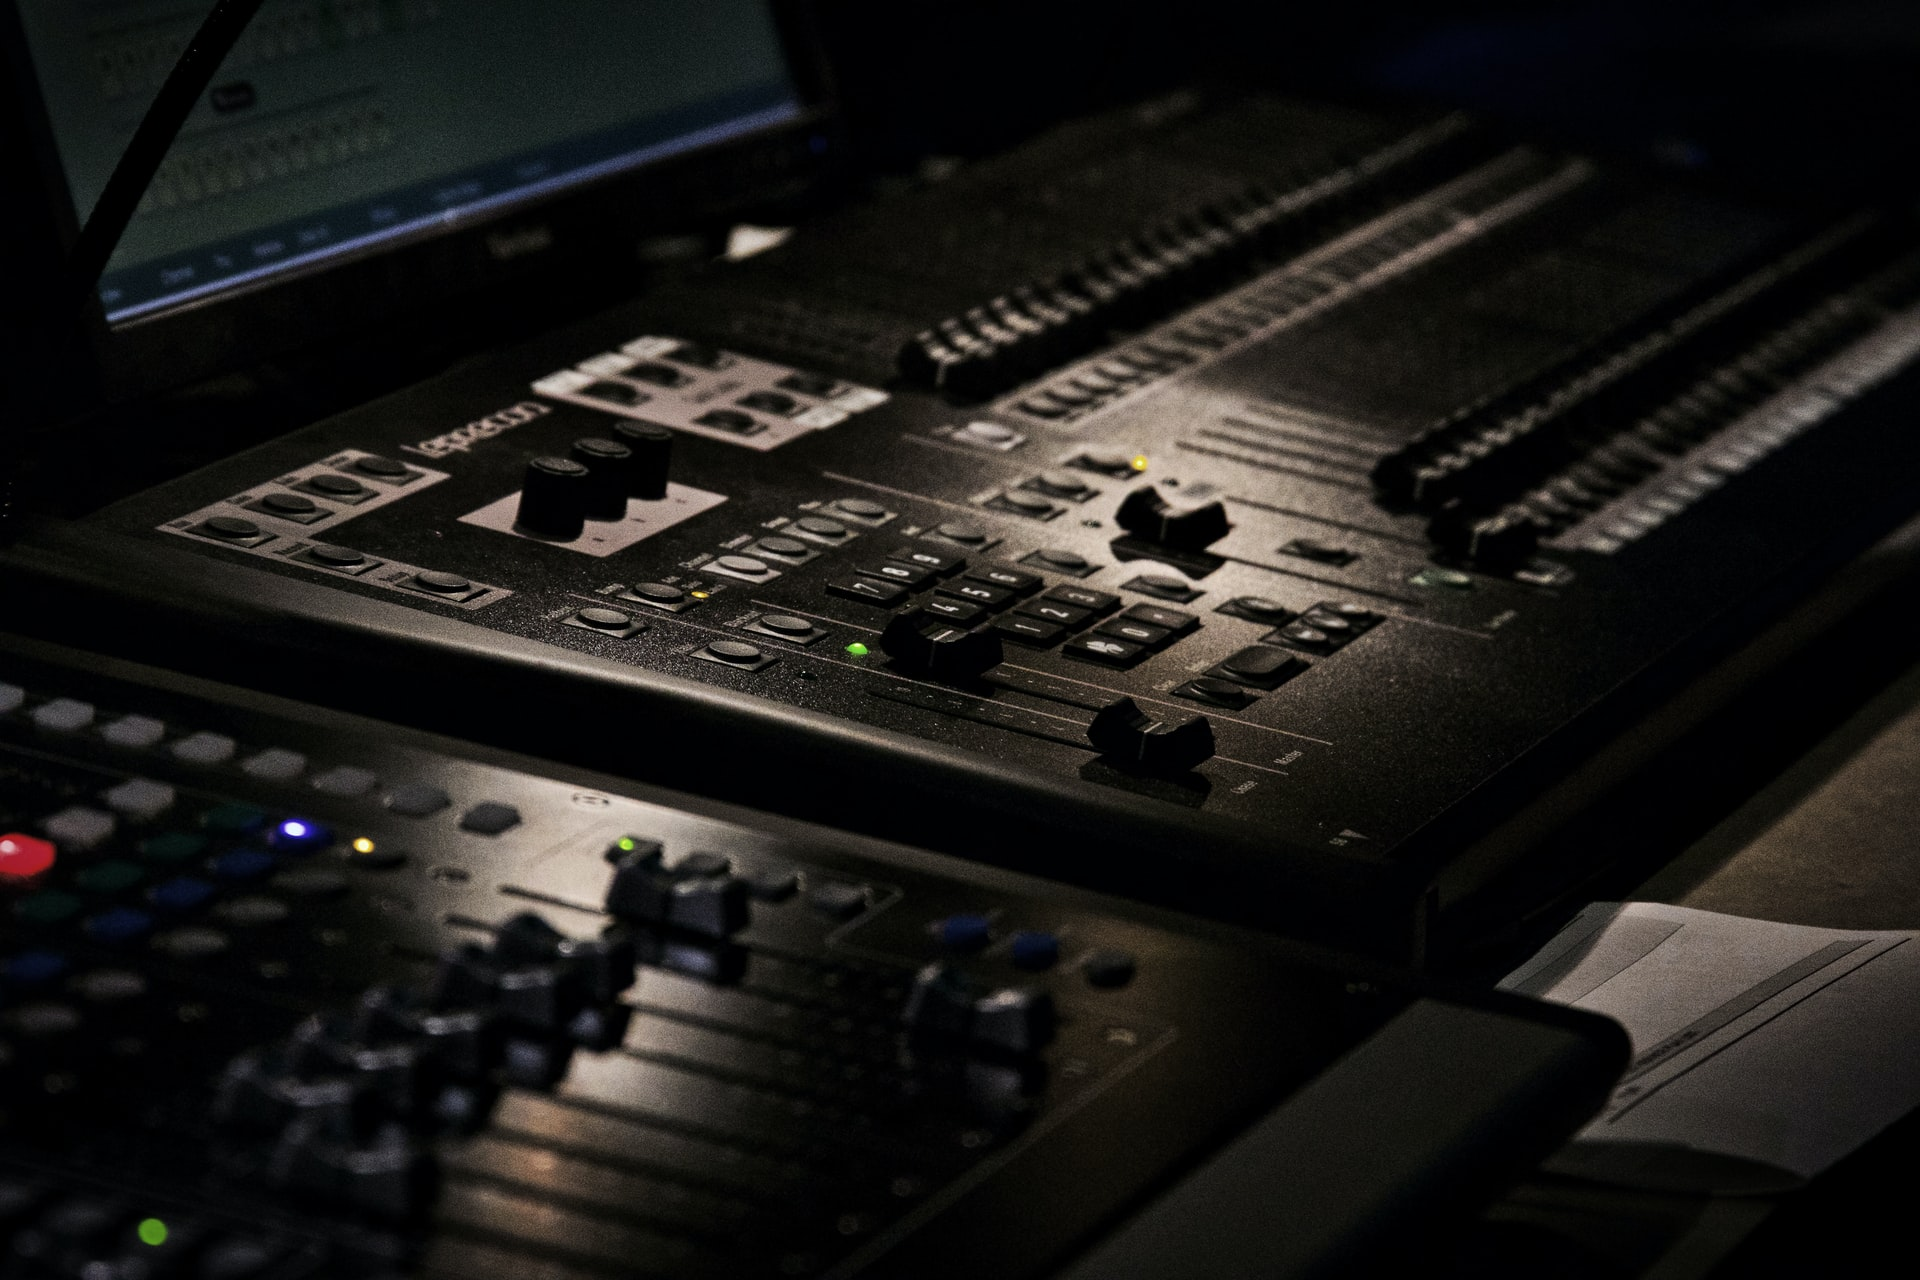
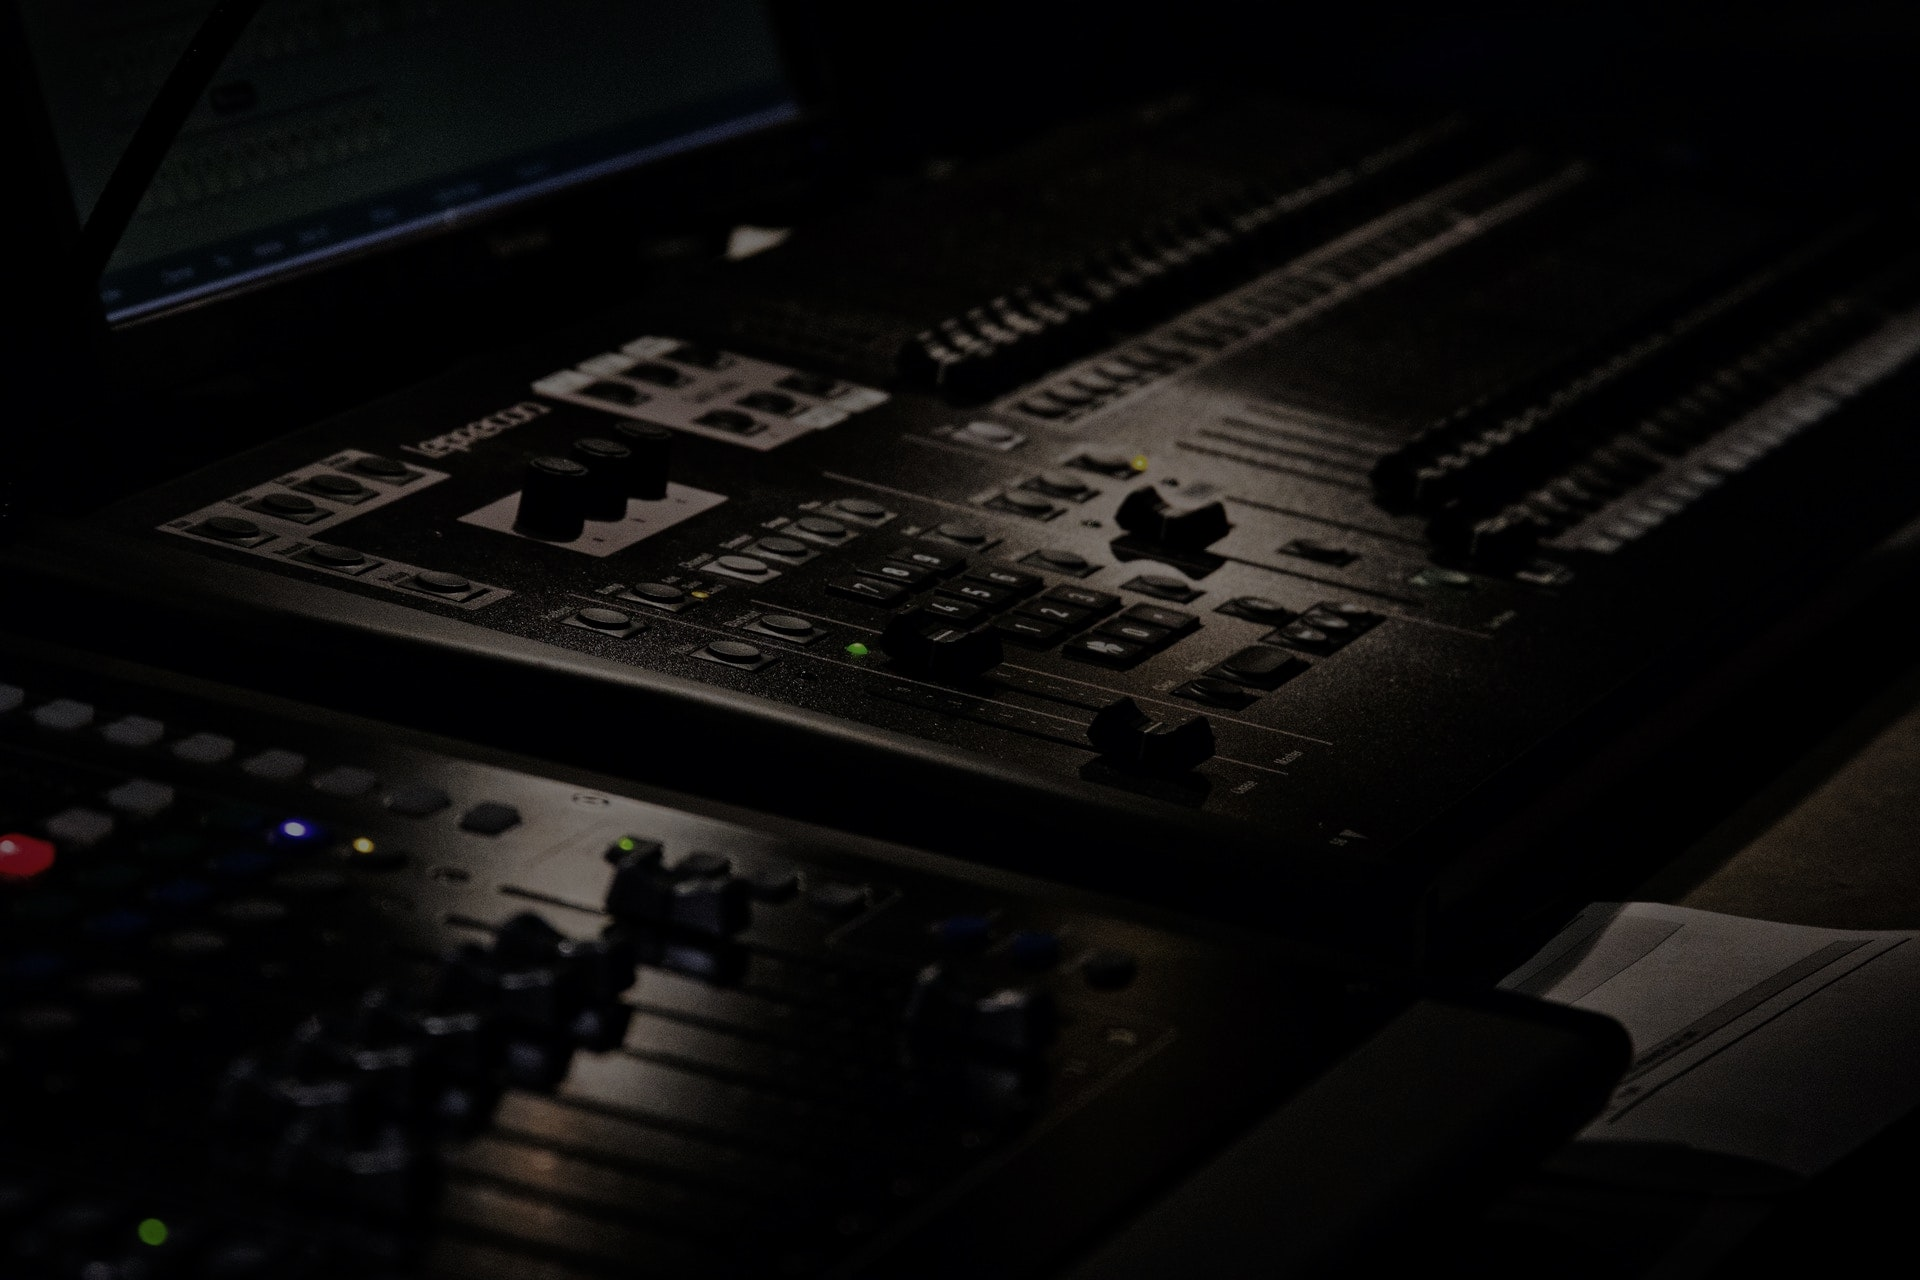
Brightness background accueil

diff --git a/src/Component/Accueil/Accueil.css b/src/Component/Accueil/Accueil.css
@@ -49,11 +49,13 @@
   from {
     margin-left: 100%;
     width: 300%;
+    opacity: 0;
   }
 
   to {
     margin-left: 0%;
     width: 100%;
+    opacity: 1;
   }
 }
 
@@ -61,11 +63,22 @@
   from {
     margin-right: 100%;
     width: 300%;
+    opacity: 0;
   }
 
   to {
     margin-right: 0%;
     width: 100%;
+    opacity: 1;
+  }
+}
+
+@keyframes opacity {
+  from {
+    opacity: 0;
+  }
+  to {
+    opacity: 1;
   }
 }
 

diff --git a/src/Component/Services/Services.css b/src/Component/Services/Services.css
@@ -28,6 +28,8 @@
   margin-bottom: 3em;
   display: flex;
   flex-direction: column;
+  animation-duration: 5s;
+  animation-name: opacity;
 }
 
 .services__list__item__image {
@@ -86,6 +88,17 @@
   width: 90%;
   margin: 1em auto;
   line-height: 1.5em;
+}
+
+/* Animation  */
+
+@keyframes opacity {
+  from {
+    opacity: 0;
+  }
+  to {
+    opacity: 1;
+  }
 }
 
 /* Responsive */

diff --git a/src/Component/Contact/Contact.css b/src/Component/Contact/Contact.css
@@ -10,6 +10,7 @@
 .contact__infos {
   display: flex;
   flex-direction: row;
+  overflow: hidden;
 }
 
 .contact__infos__description {

diff --git a/src/Component/Header/Header.css b/src/Component/Header/Header.css
@@ -4,6 +4,7 @@
   top: 0;
   width: 100%;
   color: #f1f1f1;
+  z-index: 1;
 }
 
 .header__navBar {
